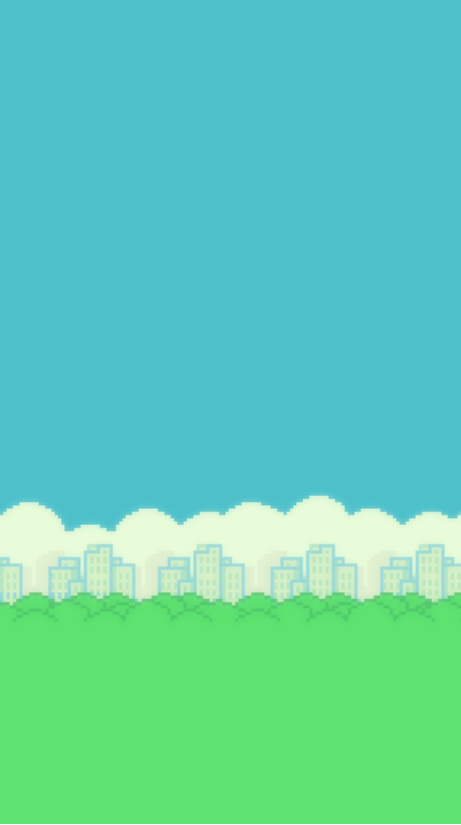
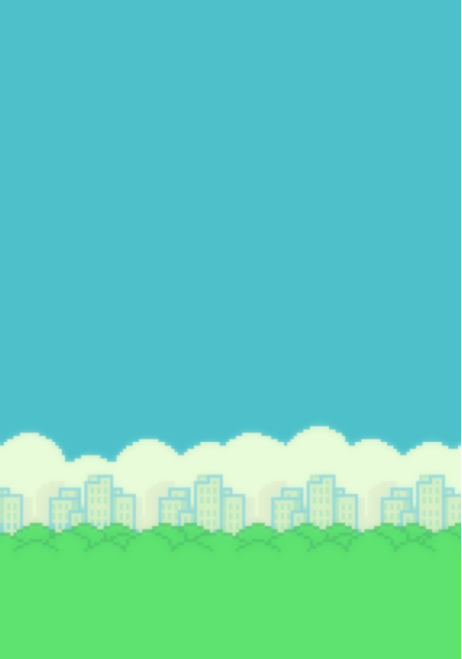
rework

Changed region(s): [[0.0, 0.5766, 1.0, 0.8194], [0.9718, 0.9712, 1.0, 1.0]]

diff --git a/flappybird/flappybird.html b/flappybird/flappybird.html
@@ -10,40 +10,10 @@
     </style>
 </head>
 <body>
-    <canvas id="id-canvas" width="461" height="825"></canvas>
+    <canvas id="id-canvas" width="461" height="659"></canvas>
     <hr>
-    <div>
-        <label>
-            <input id="id-input-speed" type="range" value="1">
-            <!--帧率:<span class="ui-label"></span>-->
-        </label>
-    </div>
 
 
-    <div>
-        <label>
-            <input data-value="config.player_speed" class="auto-slider" type="range" value="">
-            玩家速度:<span class="ui-label"></span>
-        </label>
-    </div>
-    <div>
-        <label>
-            <input data-value="config.player_bullet_speed" class="auto-slider" type="range" value="">
-            子弹速度:<span class="ui-label"></span>
-        </label>
-    </div>
-    <div>
-        <label>
-            <input data-value="config.bullet_cooldown" class="auto-slider" type="range" value="">
-            子弹冷却时间:<span class="ui-label"></span>
-        </label>
-    </div>
-    <div>
-        <label>
-            <input data-value="config.enemy_speed" class="auto-slider" type="range" value="">
-            敌机速度:<span class="ui-label"></span>
-        </label>
-    </div>
 
     <!--game-->
     <script src="game/config.js"></script>
@@ -66,6 +36,7 @@
     <script src="scene/common/scene_text.js"></script>
     <script src="scene/main/bird.js"></script>
     <script src="scene/main/land.js"></script>
+    <script src="scene/main/pipe.js"></script>
     <script src="scene/title/scene_title.js"></script>
     <script src="scene/end/scene_end.js"></script>
     <!--main-->

diff --git a/flappybird/event_bind.js b/flappybird/event_bind.js
@@ -1,4 +1,24 @@
+
+var craetHtml = function () {
+    let result = ''
+    for (let key in config) {
+        let item = config[key]
+        let dataValue = 'config.' + key + '.value'
+        let html = `
+            <div>
+                <label>
+                    <input data-value="${dataValue}" class="auto-slider" type="range" value="" max="300">
+                    ${item.text}:<span class="ui-label"></span>
+                </label>
+            </div>
+            `
+        result += html
+    }
+    document.body.insertAdjacentHTML('beforeend', result)
+}
+
 var es = (sel) => document.querySelectorAll(sel)
+
 var bindAll = (sel, eventName, callBack) => {
     var l = es(sel)
     for (let i = 0; i < l.length; i++) {
@@ -9,11 +29,20 @@ var bindAll = (sel, eventName, callBack) => {
 
     }
 }
-bindAll('.auto-slider', 'input', function (event) {
-    var target = event.target
-    var dataValue = target.dataset.value
-    var val = target.value
-    eval(dataValue + '='+ val)
-    var label = target.closest('label').querySelector('.ui-label')
-    label.innerText = val
-})
+
+
+
+var __main = function () {
+    craetHtml()
+    bindAll('.auto-slider', 'input', function (event) {
+        var target = event.target
+        var dataValue = target.dataset.value
+        var val = target.value
+        console.log('dataValue', dataValue)
+        eval(dataValue + '='+ val)
+        var label = target.closest('label').querySelector('.ui-label')
+        label.innerText = val
+    })
+}
+
+__main()

diff --git a/flappybird/scene/main/scene.js b/flappybird/scene/main/scene.js
@@ -5,13 +5,18 @@ class Scene extends BaseScene {
         this.setup()
     }
     setup() {
-        this.bird = Bird.new(this.game)
         this.birdBg = BaseImage.new(this.game, 'bg_day')
-        this.landList = Land.new(this.game)
         this.addElement(this.birdBg)
+        this.bird = Bird.new(this.game)
+        this.landList = Land.new(this.game)
+        this.pipeList = Pipe.new(this.game)
         this.addElement(this.landList)
+        this.addElement(this.pipeList)
         this.addElement(this.bird)
         this.registerAction()
+        this.interval = 250
+        this.fps = 3
+        this.counter = 0
     }
     flipDraw(gameImage) {
         let ctx = this.game.context
@@ -38,6 +43,26 @@ class Scene extends BaseScene {
             const e = elements[i];
             this.flipDraw(e)
         }
+    }
+    debug() {
+        this.interval = 100
+    }
+    update() {
+        this.fps--
+        if (this.fps === 0) {
+            this.fps = 3
+            this.x -= 5
+            if (this.x < 0) {
+                this.x = 461 + this.distance
+            }
+        }
+        this.pipeList.forEach((pipe, index) => {
+            if (!pipe.flipY && pipe.x > this.game.canvas.width) {
+                pipe.y = -random(0, 310)
+                this.pipeList[index + 1].y = pipe.h + pipe.y + config.pipe_interval.value
+            }
+        })
+        super.update()
     }
     registerAction() {
         let game = this.game

diff --git a/flappybird/scene/main/pipe.js b/flappybird/scene/main/pipe.js
@@ -1,0 +1,47 @@
+class Pipe {
+    constructor(game) {
+        this.game = game
+        this.name = 'pipe0_down'
+        this.fps = 3
+        this.counter = 0
+        this.distance = 200
+        this.setup(game)
+    }
+    setup(game) {
+        this.texture = game.textureByName(this.name)
+        this.w = this.texture.width
+        this.h = this.texture.height
+        this.x = 0
+        this.y = 0
+    }
+    static new(game) {
+        let result = []
+        for (let i = 0; i < 3; i++) {
+            let pipe1 = new this(game)
+            let pipe2 = new this(game)
+            pipe1.x = 461 + i * pipe1.distance
+            pipe1.y = -random(0, 320)
+            pipe2.x = pipe1.x
+            pipe2.y = pipe1.h + pipe1.y + 250
+            pipe1.index = i
+            pipe2.index = i
+            pipe2.flipY = true
+            result.push(pipe1)
+            result.push(pipe2)
+        }
+        return result
+    }
+    debug() {
+        this.distance = config.pipe_distance.value
+    }
+    update() {
+        this.fps--
+        if (this.fps === 0) {
+            this.fps = 3
+            this.x -= 5
+            if (this.x < 0) {
+                this.x = 461 + this.distance
+            }
+        }
+    }
+}

diff --git a/brick/main.js b/brick/main.js
@@ -1,13 +1,13 @@
-var changeBallSpeed = function () {
-    var el = document.querySelector('#id-input-speed')
-    el.addEventListener('input', function (event) {
-        var target = event.target
-        var value = Number(target.value)
-        if (!value) value = 30
-        window.fps = value
-    })
-
-}
+// var changeBallSpeed = function () {
+//     var el = document.querySelector('#id-input-speed')
+//     el.addEventListener('input', function (event) {
+//         var target = event.target
+//         var value = Number(target.value)
+//         if (!value) value = 30
+//         window.fps = value
+//     })
+//
+// }
 
 var enableDebugMode = function(enable) {
     if (!enable) {

diff --git a/flappybird/main.js b/flappybird/main.js
@@ -31,6 +31,7 @@ var __main = function () {
         bird1_1: baePath + 'bird/bird1_1.png',
         bird1_2: baePath + 'bird/bird1_2.png',
         land_0: baePath + 'bird/land_0.png',
+        pipe0_down: baePath + 'bird/pipe0_down.png',
     }
     var gameCallback = function() {
         // var scene = SceneTitle.new(game)
@@ -38,7 +39,7 @@ var __main = function () {
         game.replaceScene(scene)
     }
     var game = Game.instance(30, images, gameCallback)
-    changeBallSpeed()
+    // changeBallSpeed()
     enableDebugMode(true)
 
 }

diff --git a/flappybird/game/config.js b/flappybird/game/config.js
@@ -1,11 +1,11 @@
+
 var config = {
-    player_speed: 5,
-    player_bullet_speed: 10,
-    enemy_speed: 2,
-    enemy_bullet_speed: -5,
-    player_bullet_cooldown: 5,
-    enemy_bullet_cooldown: 40,
-    particles_number: 20,
-    particles_fps: 10,
-    enemy_number: 5,
+    pipe_interval: {
+        value: 200,
+        text: '管子竖向间隔距离',
+    },
+    pipe_distance: {
+        value: 200,
+        text: '管子横向间隔距离',
+    },
 }

diff --git a/flappybird/game/base_scene.js b/flappybird/game/base_scene.js
@@ -20,6 +20,9 @@ class BaseScene {
         var elements = this.elements
         for (let i = 0; i < elements.length; i++) {
             const e = elements[i];
+            if (true && e.debug) {
+                e.debug()
+            }
             e.update()
             this.handleStatus(e, i)
         }

diff --git a/flappybird/scene/main/land.js b/flappybird/scene/main/land.js
@@ -19,7 +19,7 @@ class Land {
             let land = new this(game)
             land.x = i * 336
             land.index = i
-            land.y = 750
+            land.y = game.canvas.height - 50
             result.push(land)
         }
         return result

diff --git a/flappybird/scene/main/bird.js b/flappybird/scene/main/bird.js
@@ -22,7 +22,7 @@ class Bird extends Animation {
             this.gravity += this.gravity* 0.1
             this.y += this.gravity
         }
-        let h = 710
+        let h = 535
         if (this.y > h) {
             this.y = h
         }
